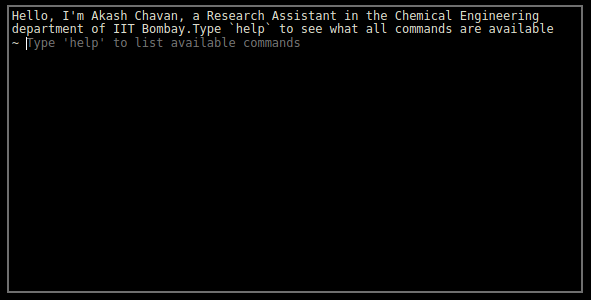
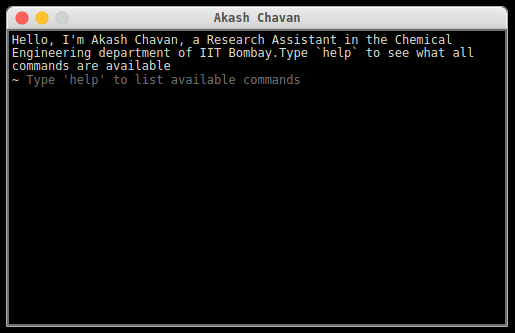
Make the window look like mac

Changed region(s): [[0.0, 0.0, 0.9942, 0.99]]

diff --git a/style.css b/style.css
@@ -1,3 +1,44 @@
+.window{
+    border-top-left-radius: 6px;
+    border-top-right-radius: 6px;
+    border: 1px solid #adadad;
+    max-width: 500px;
+    margin: 0 auto;
+    box-shadow: 0 20px 70px rgba(0, 0, 0, 0.55);
+}
+
+.window__bar {
+  background:
+  radial-gradient(7px at 14px 50%, #ff5e57 0px, #ff635a 5px, #fd5249 6px, rgba(255, 255, 255, 0) 7px),
+  radial-gradient(7px at 34px 50%, #ffbd2e 0px, #ffc42f 5px, #fcb91b 6px, rgba(255, 255, 255, 0) 7px),
+  radial-gradient(7px at 54px 50%, #cfcfcf 0px, #d3d3d3 5px, #c6c6c6 6px, rgba(255, 255, 255, 0) 7px),
+  linear-gradient(to top, #cccccc 0%, #d6d6d6 1px, #ebebeb 100%);
+}
+
+.window__content {
+    &:before {
+      content:'';
+      display: block;
+      padding-top: 100%;
+    }
+  }
+
+.window__bar {
+  border: 1px solid white;
+  border-left-color: #f3f3f3;
+  border-right-color: #f3f3f3;
+  border-bottom-color: #bdbdbd;
+  border-top-left-radius: 6px;
+  border-top-right-radius: 6px;
+  height: 20px;
+  text-align: center;
+  color: #505151;
+  font-size: 12px;
+  font-weight: bold;
+  line-height: 20px;
+  vertical-align: middle;
+}
+
 html {
     background-color: black;
     font-family: 'tewi', monospace;
@@ -7,9 +48,9 @@ html {
     color: #dcdccc;
 }
 
-*, *:before, *:after {
+/**, *:before, *:after {
     box-sizing: inherit;
-}
+}*/
 
 body {
     justify-content: center;

diff --git a/index.html b/index.html
@@ -11,13 +11,18 @@
     <script type="text/javascript" src="script.js"></script>
 </head>
 <body>
-    <main id = "terminal">
-        <div id = "stdout">
+    <div class="window">
+        <div class="window__bar">Akash Chavan</div>
+        <div class="window__content">
+            <main id = "terminal">
+                <div id = "stdout">
+                </div>
+                <div id = "prompt">
+                    <label for="stdin">~&nbsp;</label>
+                    <input id="stdin" type="text" autocomplete="off" inputmode="verbatim" placeholder="Type 'help' to list available commands" autofocus>
+                </div>
+            </main>
         </div>
-        <div id = "prompt">
-            <label for="stdin">~&nbsp;</label>
-            <input id="stdin" type="text" autocomplete="off" inputmode="verbatim" placeholder="Type 'help' to list available commands" autofocus>
-        </div>
-    </main>
+    </div>
 </body>
 </html>
